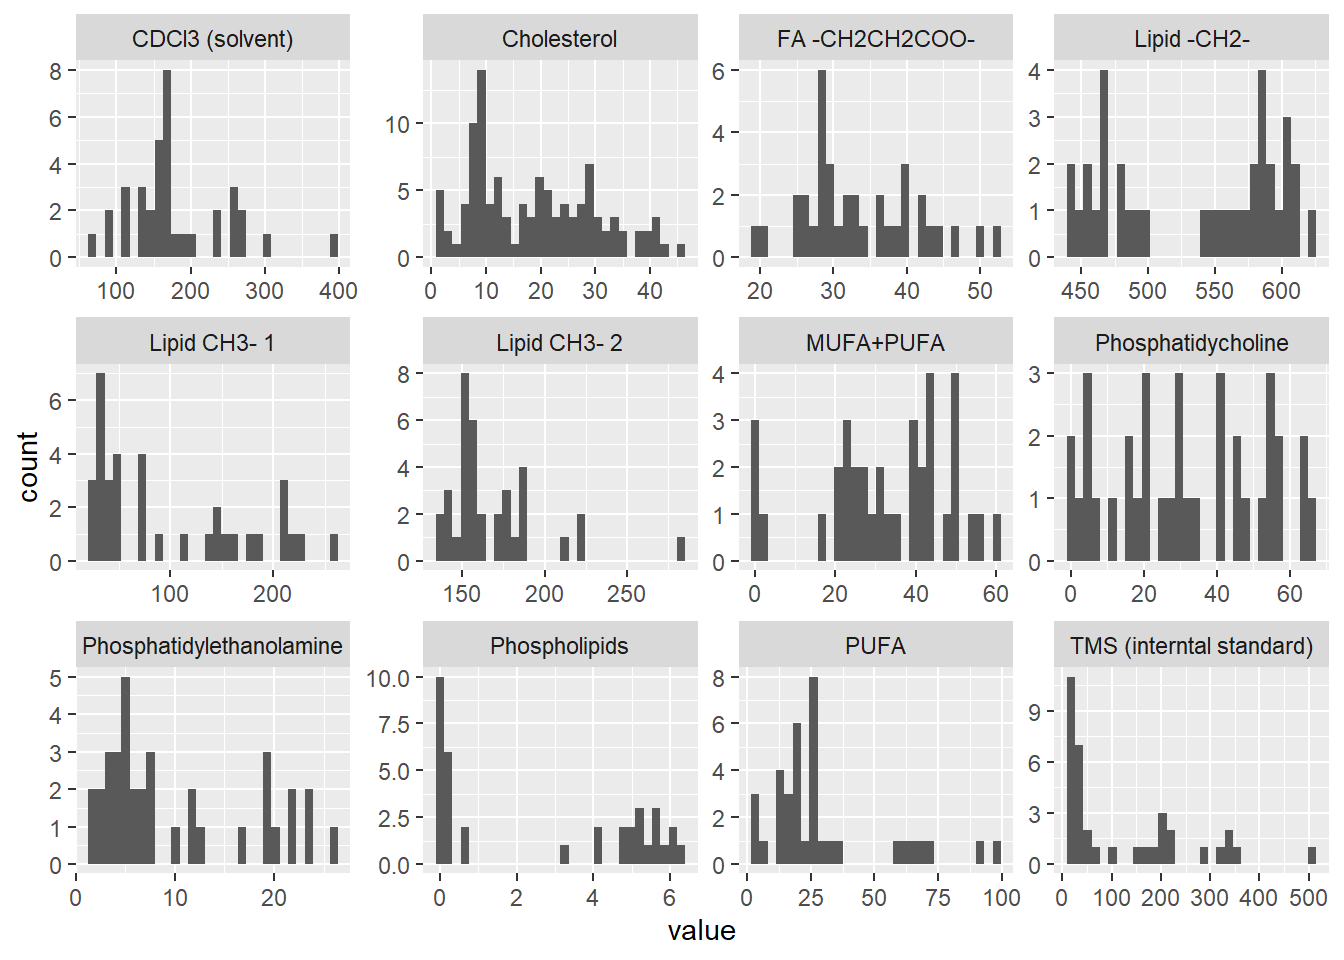
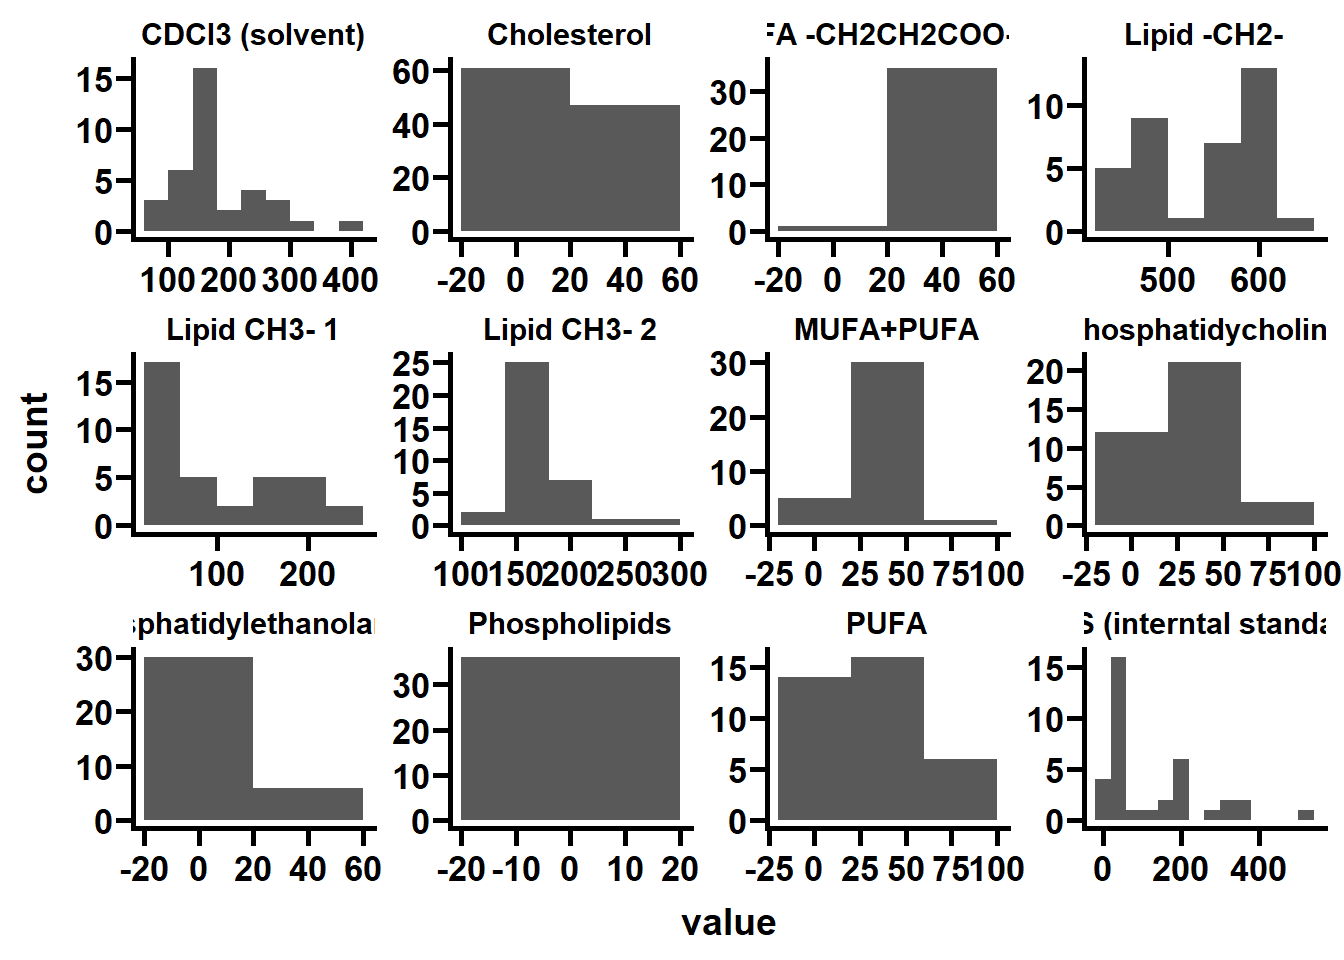
Add tidymodels to DESCRIPTION

diff --git a/doc/learning.html b/doc/learning.html
@@ -171,10 +171,8 @@ pre > code.sourceCode > span > a:first-child::before { text-decoration: underlin
 </div>
 </div>
 <div class="cell">
-<div class="sourceCode cell-code" id="cb2"><pre class="sourceCode r code-with-copy"><code class="sourceCode r"><span id="cb2-1"><a href="#cb2-1" aria-hidden="true" tabindex="-1"></a><span class="fu">tar_read</span>(fig_metabolite_distribution)</span></code><button title="Copy to Clipboard" class="code-copy-button"><i class="bi"></i></button></pre></div>
-<div class="cell-output cell-output-stderr">
-<pre><code>`stat_bin()` using `bins = 30`. Pick better value with `binwidth`.</code></pre>
-</div>
+<div class="sourceCode cell-code" id="cb2"><pre class="sourceCode r code-with-copy"><code class="sourceCode r"><span id="cb2-1"><a href="#cb2-1" aria-hidden="true" tabindex="-1"></a><span class="fu">tar_read</span>(fig_metabolite_distribution) <span class="sc">+</span></span>
+<span id="cb2-2"><a href="#cb2-2" aria-hidden="true" tabindex="-1"></a>    ggprism<span class="sc">::</span><span class="fu">theme_prism</span>()</span></code><button title="Copy to Clipboard" class="code-copy-button"><i class="bi"></i></button></pre></div>
 <div class="cell-output-display">
 <p><img src="learning_files/figure-html/unnamed-chunk-2-1.png" class="img-fluid" width="672"></p>
 </div>
